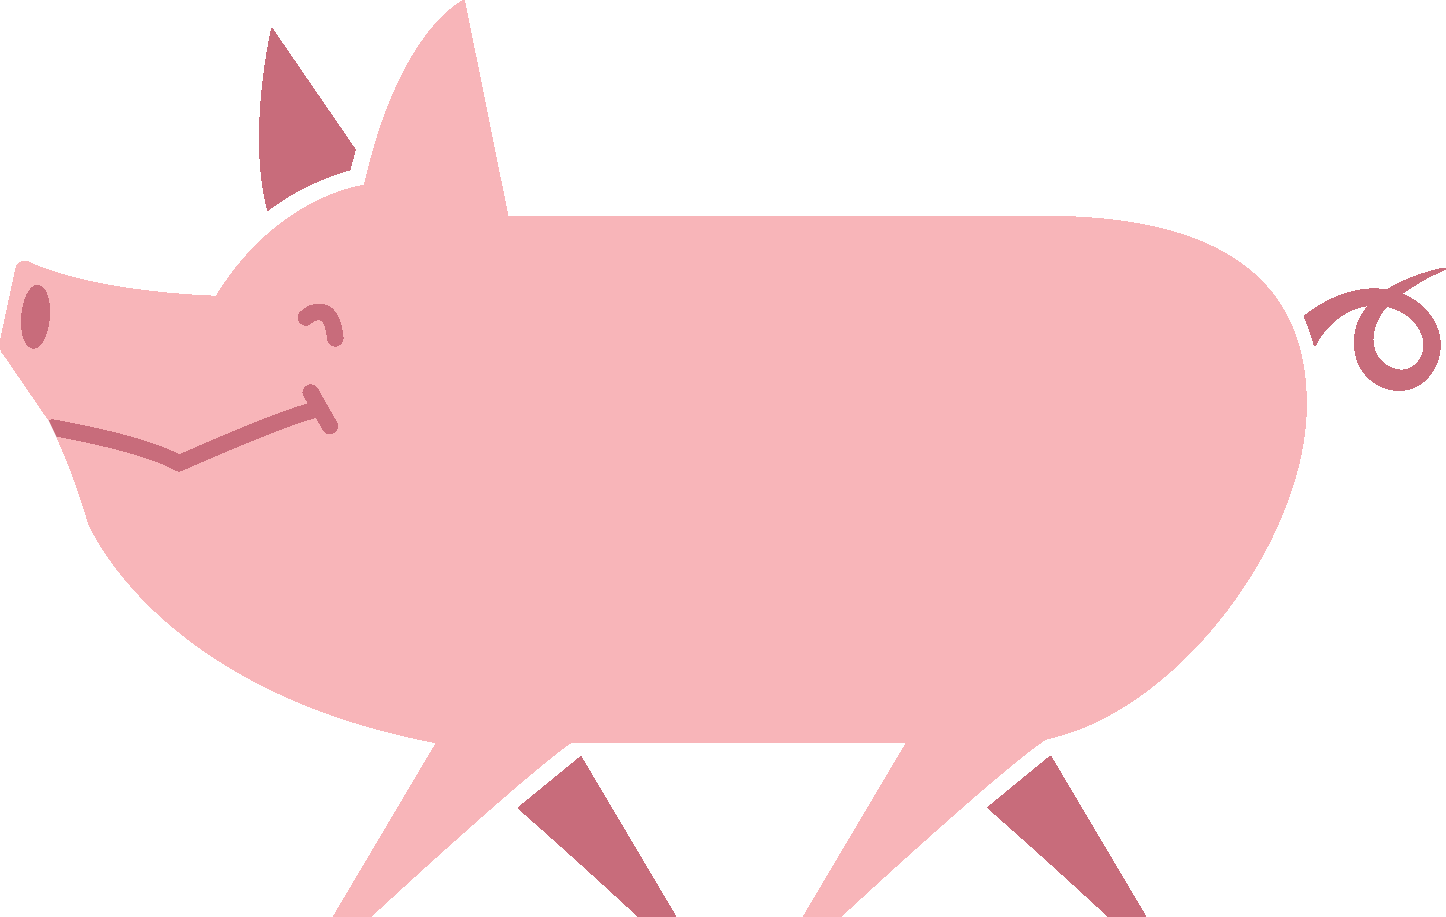
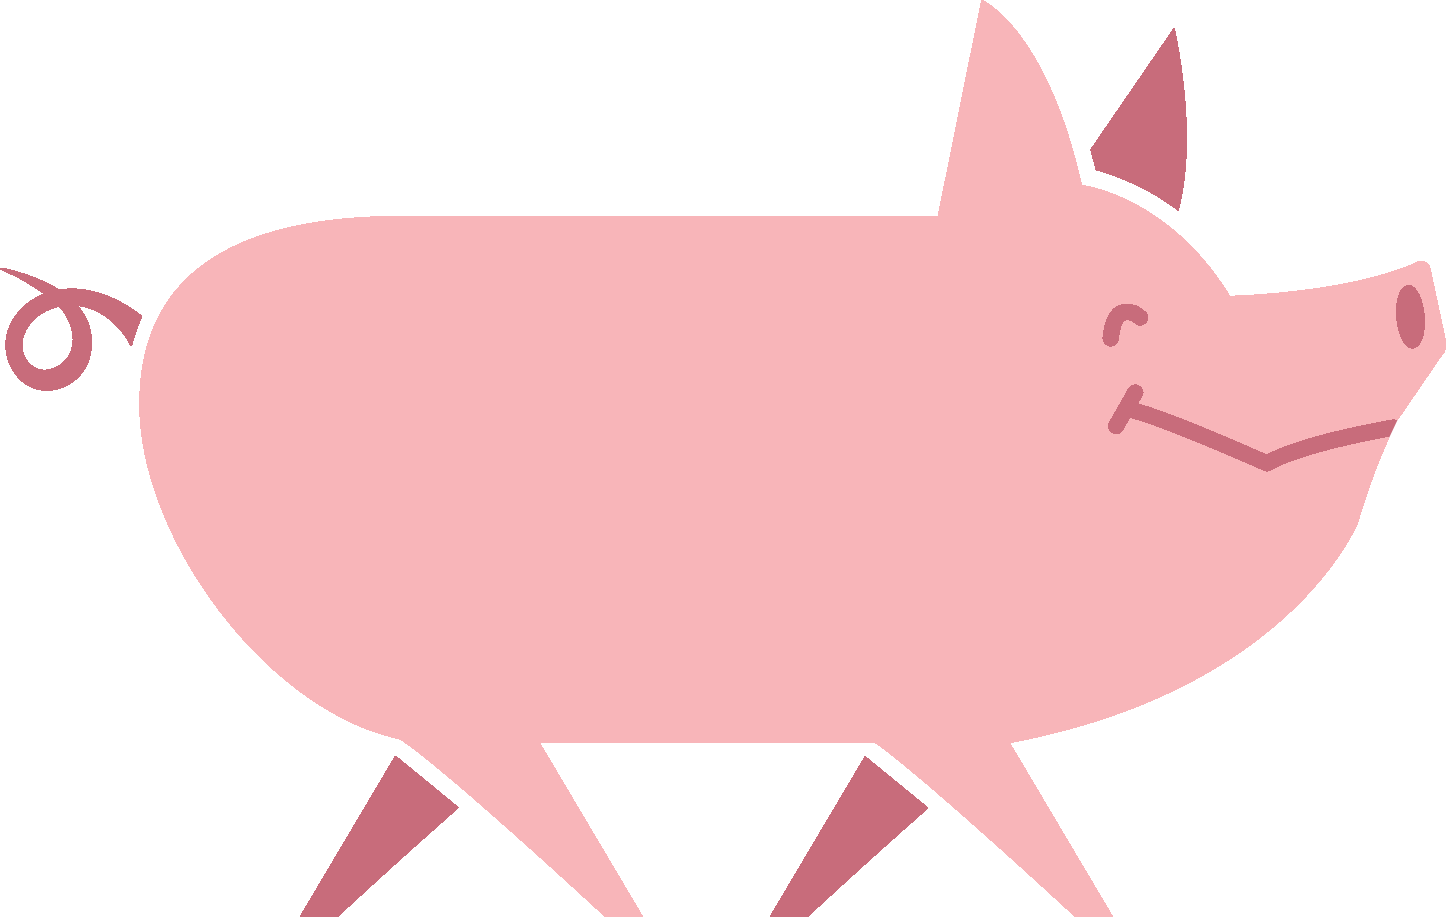
added the piggy home page and user name entry

diff --git a/templates/pages/account.html b/templates/pages/account.html
@@ -14,13 +14,6 @@
         line-height: 30px;
         text-align: center;
         color: white;
-      }
-
-      .progress-bar.negative {
-        background-color: red;
-      }
-
-      .progress-bar:not(.negative) {
         background-color: #4caf50;
       }
 
@@ -30,7 +23,7 @@
     </style>
   </head>
   <body>
-    <h1>Welcome to your piggy bank {{kid_name}}!</h1>
+    <h1>Welcome to your piggy bank {{kidName}}!</h1>
     <p>Meter Value: ${{ meter_value|floatformat:2 }}</p>
 
     <!-- Form to submit and add 1 dollar or 25 cents to the meter -->
@@ -82,6 +75,11 @@
         Subtract 25¢ from Meter
       </button>
       <br /><br />
+      {% if not_enough_cash %}
+      <script>
+        alert("NOT ENOUGH CASH");
+      </script>
+      {% endif %}
       <button type="submit" name="reset_meter">Reset Meter</button>
 
       <!-- Input field for the goal amount -->
@@ -98,10 +96,7 @@
       <!-- Progress bar container -->
       <div class="progress-bar-container">
         <!-- Progress bar (will dynamically elongate based on the percentage of the goal achieved) -->
-        <div
-          class="progress-bar {% if progress_percentage < 0 %}negative{% endif %}"
-          style="width: {{ progress_percentage }}%;"
-        >
+        <div class="progress-bar" style="width: {{ progress_percentage }}%;">
           {{ progress_percentage }}%
         </div>
       </div>

diff --git a/templates/pages/index.html b/templates/pages/index.html
@@ -3,10 +3,38 @@
 <html>
   <head>
     <title>piggy bank</title>
+    <link
+      rel="stylesheet"
+      type="text/css"
+      href="{% static 'css/styles.css' %}"
+    />
   </head>
   <body>
-    <button type="button" onclick="alert('Button Clicked!')"/>
-    Click Me
-    </button>
+    <div class="pig-container">
+      <button onclick="redirectToAccount()">
+        <img
+          src="{% static 'img/profilePig2.png' %}"
+          alt="Pig Image"
+          class="pig-image"
+        />
+      </button>
+
+      <div class="speech-bubble">
+        <form>
+          <label for="userInput">Enter your name:</label>
+          <input type="text" id="userInput" placeholder='"Wilbur"' />
+        </form>
+      </div>
+    </div>
+
+    <script>
+      function redirectToAccount() {
+        // Get the user input from the input field
+        var kidName = document.getElementById("userInput").value;
+
+        // Construct the URL with the user's input and redirect
+        window.location.href = "/account/" + encodeURIComponent(kidName);
+      }
+    </script>
   </body>
 </html>

diff --git a/piggybank/static/css/styles.css b/piggybank/static/css/styles.css
@@ -1,0 +1,32 @@
+body {
+  display: flex;
+  justify-content: center;
+  align-items: center;
+  height: 100vh;
+  margin: 0;
+}
+
+.pig-container {
+  position: relative;
+}
+
+.pig-image {
+  width: 200px;
+}
+
+.speech-bubble {
+  position: absolute;
+  background-color: #ffffff;
+  border: 1px solid #000000;
+  padding: 10px;
+  border-radius: 10px;
+  width: 200px;
+  top: -100px;
+  left: 50px;
+}
+
+form {
+  display: flex;
+  flex-direction: column;
+  gap: 10px;
+}

diff --git a/pages/views.py b/pages/views.py
@@ -5,9 +5,10 @@ from django.http import HttpResponse
 def indexPageView(request):
     return render(request, 'pages/index.html')
 
-def accountPageView(request, kid_name):
+def accountPageView(request, kidName):
     meter_value = request.session.get('meter_value', 0)
     goal_amount = request.session.get('goal_amount', 0)
+    not_enough_cash = False
 
     if request.method == 'POST':
         if 'add_ten_dollar' in request.POST:
@@ -23,13 +24,25 @@ def accountPageView(request, kid_name):
             # Add 0.25 dollars (25 cents) to the meter value
             meter_value += 0.25
         elif 'subtract_ten_dollar' in request.POST:
-            meter_value -= 10
+            if meter_value >= 10:
+                meter_value -= 10
+            else:
+                not_enough_cash = True  # Set the flag if not enough cash
         elif 'subtract_five_dollar' in request.POST:
-            meter_value -= 5
+            if meter_value >= 5:
+                meter_value -= 5
+            else:
+                not_enough_cash = True  # Set the flag if not enough cash
         elif 'subtract_dollar' in request.POST:
-            meter_value -= 1
+            if meter_value >= 1:
+                meter_value -= 1
+            else:
+                not_enough_cash = True  # Set the flag if not enough cash
         elif 'subtract_quarter' in request.POST:
-            meter_value -= 0.25
+            if meter_value >= 0.25:
+                meter_value -= 0.25
+            else:
+                not_enough_cash = True  # Set the flag if not enough cash
         elif 'reset_meter' in request.POST:
             # Reset the meter value to 0
             meter_value = 0
@@ -50,4 +63,12 @@ def accountPageView(request, kid_name):
 
     formatted_percentage = "{:.2f}".format(progress_percentage)
 
-    return render(request, 'pages/account.html', {'meter_value':meter_value, 'goal_amount': goal_amount, 'progress_percentage': formatted_percentage, 'kid_name': kid_name})
+    context = {
+        'kidName':kidName,
+        'meter_value':meter_value,
+        'goal_amount':goal_amount,
+        'progress_percentage':formatted_percentage,
+        'not_enough_cash':not_enough_cash
+    }
+
+    return render(request, 'pages/account.html', context)

diff --git a/pages/urls.py b/pages/urls.py
@@ -4,5 +4,5 @@ from .views import accountPageView
 
 urlpatterns = [
     path("", indexPageView, name="index"),
-    path("account/<kid_name>", accountPageView, name="account")
+    path("account/<kidName>", accountPageView, name="account")
 ]
